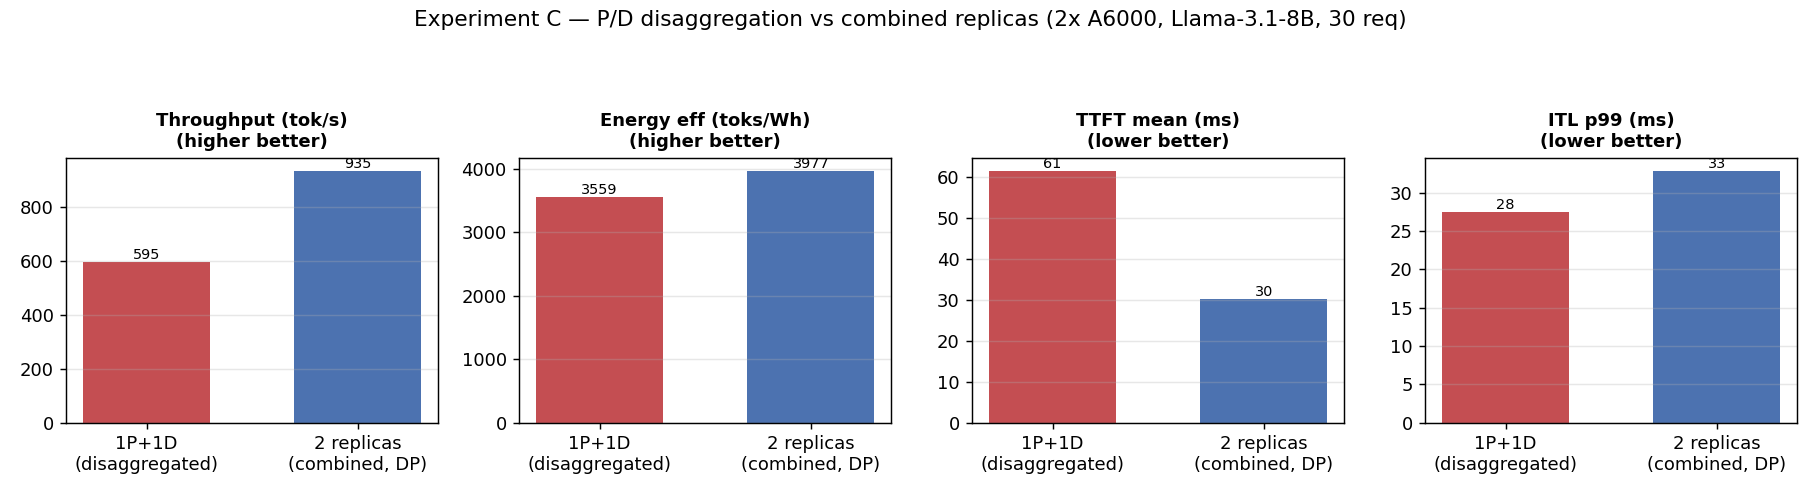
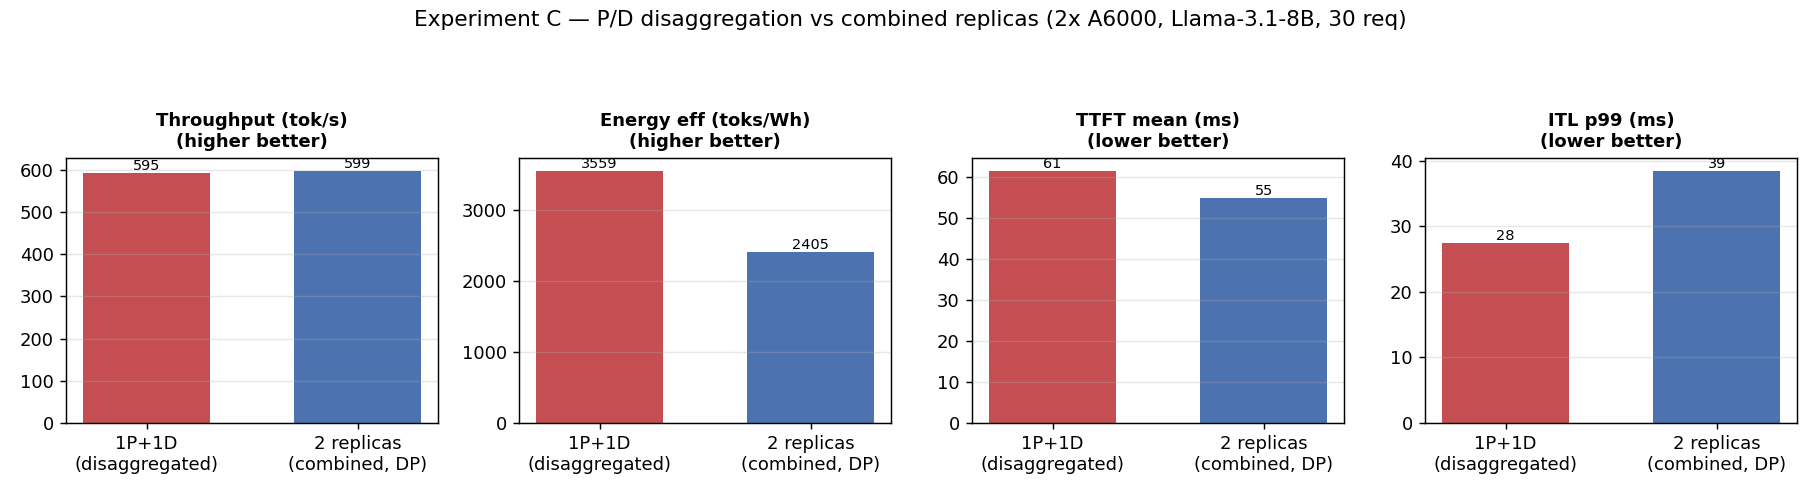
Re-run Experiment C with fixed TP semantics + add Experiment D (A40+RNGD 70B)
After fixing the TP<->npu_group mapping (195ff17), the Experiment C "combined"
baseline is now a genuine 2xTP1 DP setup (previously mis-rendered as one TP2
instance). Corrected result: at equal hardware, 1P+1D and 2xTP1 replicas have
near-identical throughput (595 vs 599 tok/s) — a real trade-off, not domination:
P/D wins ITL-p99 (27.5 vs 38.6 ms) and energy (3559 vs 2405 toks/Wh); DP wins
TTFT (54.8 vs 61.5 ms). REPORT S7.5 rewritten accordingly.

Add Experiment D (S8.7): the A40x8 + RNGDx8 / 70B run that surfaced the mapping
bug. All 4 candidates pass SLO; RNGD-only configs dominate the Pareto front —
adding A40 halves throughput (RR routing makes the slower A40 a straggler),
a non-obvious result only Stage-2 simulation reveals. + fig3 (regenerated),
fig4, make_70b_figure.py.

diff --git a/output/planner_experiments/make_70b_figure.py b/output/planner_experiments/make_70b_figure.py
@@ -1,0 +1,63 @@
+"""Figure for the A40+RNGD 70B planner run (Experiment D)."""
+import csv
+from pathlib import Path
+
+import matplotlib
+matplotlib.use("Agg")
+import matplotlib.pyplot as plt
+
+BASE = Path(__file__).resolve().parent
+RUN = BASE / "runs" / "a40_rngd_70b"
+FIGDIR = BASE / "figures"
+FIGDIR.mkdir(exist_ok=True)
+
+# run_id -> readable label (from the known layouts)
+LABEL = {
+    "cand_0baf3f021ddb84e7": "A40x2+RNGDx2\n(3600W)",
+    "cand_d90f2d27d675a9b2": "A40x1+RNGDx2\n(2400W)",
+    "cand_b947de80bf8841a4": "RNGDx2\n(1200W)",
+    "cand_c2a5f4c05289f378": "RNGDx1\n(600W)",
+}
+
+rows = list(csv.DictReader(open(RUN / "pareto.csv")))
+rows = [r for r in rows if r["status"] == "ok"]
+num = lambda s: float(s)
+
+fig, (axL, axR) = plt.subplots(1, 2, figsize=(13, 4.6))
+
+# Left: Pareto scatter throughput vs toks/Wh
+for r in rows:
+    on_p = r["on_pareto"].lower() == "true"
+    axL.scatter(num(r["throughput_toks_s"]), num(r["toks_per_wh"]),
+                s=190 if on_p else 90,
+                c="#C44E52" if on_p else "#4C72B0",
+                marker="*" if on_p else "o",
+                edgecolors="#333", linewidths=1, zorder=3)
+    axL.annotate(LABEL.get(r["run_id"], r["run_id"][:8]).replace("\n", " "),
+                 (num(r["throughput_toks_s"]), num(r["toks_per_wh"])),
+                 textcoords="offset points", xytext=(8, 6), fontsize=8)
+axL.set_xlabel("Throughput (tok/s, higher better)")
+axL.set_ylabel("Energy efficiency (toks/Wh, higher better)")
+axL.set_title("Pareto: throughput vs energy (★ = Pareto front)", fontsize=11, fontweight="bold")
+axL.grid(alpha=0.3)
+
+# Right: throughput bars, colored by hardware mix
+order = ["cand_c2a5f4c05289f378", "cand_b947de80bf8841a4",
+         "cand_d90f2d27d675a9b2", "cand_0baf3f021ddb84e7"]
+by_id = {r["run_id"]: r for r in rows}
+labels = [LABEL[i] for i in order if i in by_id]
+thr = [num(by_id[i]["throughput_toks_s"]) for i in order if i in by_id]
+colors = ["#55A868" if "RNGD" in LABEL[i] and "A40" not in LABEL[i] else "#DD8452"
+          for i in order if i in by_id]
+bars = axR.bar(labels, thr, color=colors, width=0.6)
+for b, v in zip(bars, thr):
+    axR.text(b.get_x() + b.get_width() / 2, v, f"{v:.0f}", ha="center", va="bottom", fontsize=8)
+axR.set_ylabel("Throughput (tok/s)")
+axR.set_title("Adding A40 (orange) HURTS throughput", fontsize=11, fontweight="bold")
+axR.grid(axis="y", alpha=0.3)
+
+fig.suptitle("Experiment D — A40x8 + RNGDx8 (IB 200Gb), Llama-3.1-70B, TP4, 16 req",
+             fontsize=12)
+fig.tight_layout(rect=[0, 0, 1, 0.93])
+fig.savefig(FIGDIR / "fig4_a40_rngd_70b.png", dpi=130)
+print("wrote fig4_a40_rngd_70b.png")
